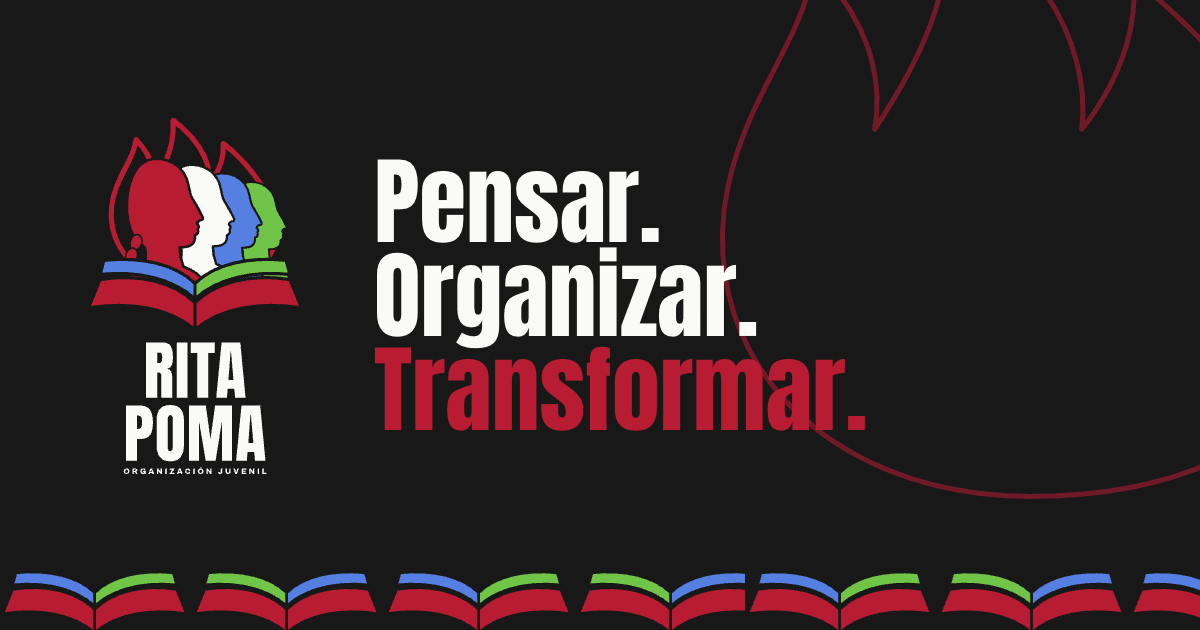
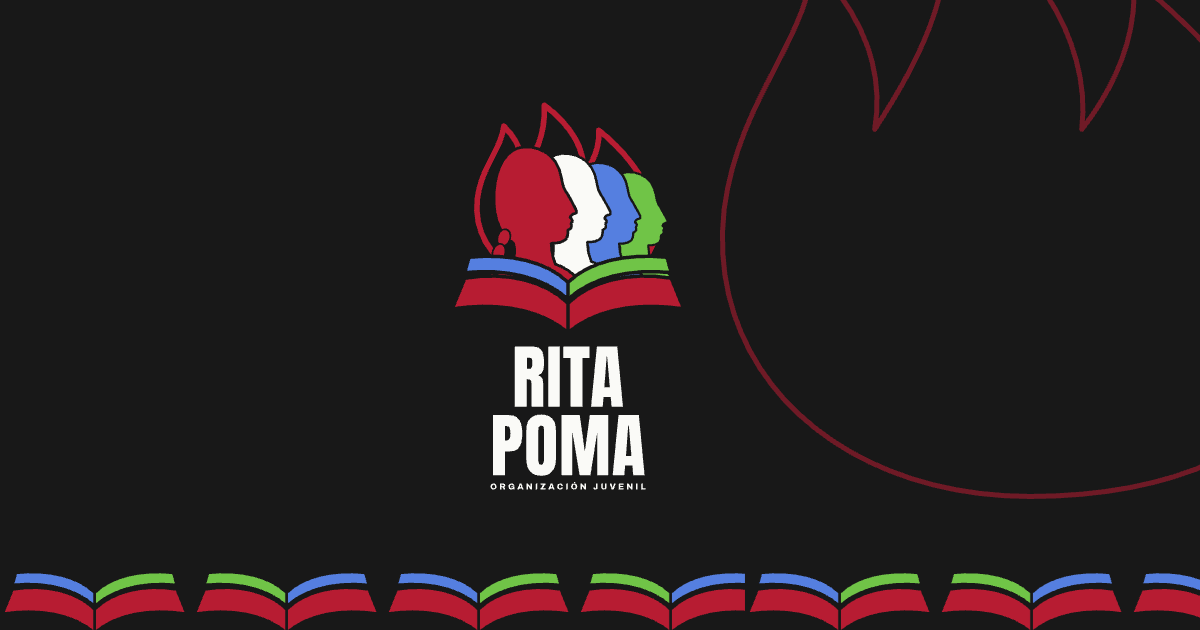
Quitar el lema interno de las páginas públicas
El lema de la organización es de uso interno y no va en piezas para el
público. Se quita de la portada (título y descripciones para compartir), del
pie del informe y de la imagen para compartir. La portada queda con el logo,
"Lima Este" y los botones, centrados en la pantalla.

Changed region(s): [[0.3083, 0.1508, 0.74, 0.7841], [0.0617, 0.181, 0.2467, 0.5127], [0.0925, 0.5429, 0.2467, 0.754]]

diff --git a/web/publico/index.html b/web/publico/index.html
@@ -4,7 +4,7 @@
 <meta charset="utf-8">
 <meta name="viewport" content="width=device-width, initial-scale=1, viewport-fit=cover">
 <title>Organización Juvenil Rita Poma</title>
-<meta name="description" content="Organización Juvenil Rita Poma, Lima Este. Pensar. Organizar. Transformar.">
+<meta name="description" content="Organización Juvenil Rita Poma, Lima Este.">
 <meta name="theme-color" content="#181818">
 
 <!-- Vista previa al compartir el enlace (WhatsApp, Instagram, Facebook) -->
@@ -12,7 +12,7 @@
 <meta property="og:locale" content="es_PE">
 <meta property="og:site_name" content="Organización Juvenil Rita Poma">
 <meta property="og:title" content="Organización Juvenil Rita Poma">
-<meta property="og:description" content="Pensar. Organizar. Transformar. · Lima Este">
+<meta property="og:description" content="Organización Juvenil · Lima Este">
 <meta property="og:image" content="https://web.organizacionritapoma.workers.dev/recursos/og/portada.png">
 <meta property="og:image:width" content="1200">
 <meta property="og:image:height" content="630">
@@ -35,13 +35,9 @@
   </div>
 
   <main class="portada__contenido">
-    <img class="portada__logo" src="recursos/img/logo_negativo.svg" width="168" height="269"
-         alt="Rita Poma, Organización Juvenil">
-
-    <h1 class="portada__eslogan">
-      <span>Pensar.</span>
-      <span>Organizar.</span>
-      <span class="rojo">Transformar.</span>
+    <h1 class="portada__titulo">
+      <img class="portada__logo" src="recursos/img/logo_negativo.svg" width="200" height="321"
+           alt="Rita Poma, Organización Juvenil">
     </h1>
 
     <p class="antetitulo portada__lugar">Lima Este</p>

diff --git a/web/og/plantilla.html b/web/og/plantilla.html
@@ -16,6 +16,8 @@
   .linea-de-fuego { top: -120px; right: -150px; width: 640px; height: auto; opacity: .55; }
   .contenido { position: absolute; left: 80px; top: 70px; bottom: 110px; right: 80px; display: flex; align-items: center; gap: 64px; z-index: 1; }
   .logo { width: 230px; flex: none; }
+  .contenido--solo-logo { justify-content: center; }
+  .contenido--solo-logo .logo { width: 250px; }
   .titular { font-family: var(--titular); font-size: 96px; line-height: .98; }
   .titular .rojo { color: var(--rojo); }
   .titular--doc { font-size: 92px; max-width: 9.5ch; }
@@ -34,9 +36,11 @@
 </div>
 <script>
   var pieza = new URLSearchParams(location.search).get("pieza") || "portada";
-  document.getElementById("texto").innerHTML = pieza === "documento"
-    ? '<p class="titular titular--doc">Rita Poma y el Puno de su tiempo</p>'
-    : '<p class="titular">Pensar.<br>Organizar.<br><span class="rojo">Transformar.</span></p>';
+  if (pieza === "documento") {
+    document.getElementById("texto").innerHTML = '<p class="titular titular--doc">Rita Poma y el Puno de su tiempo</p>';
+  } else {
+    document.querySelector(".contenido").classList.add("contenido--solo-logo");
+  }
 </script>
 </body>
 </html>

diff --git a/web/publico/recursos/css/portada.css b/web/publico/recursos/css/portada.css
@@ -38,10 +38,13 @@
   display: flex;
   flex-direction: column;
   align-items: center;
+  justify-content: center;
   text-align: center;
 }
 
-.portada__logo { width: 168px; height: auto; }
+.portada__titulo { margin: 0; }
+.portada__logo { width: 200px; height: auto; }
+.portada__titulo + .portada__lugar { margin-top: 28px; }
 
 .portada__eslogan {
   margin-top: 36px;
@@ -67,8 +70,7 @@
   gap: 14px;
 }
 
-/* Cada botón es una cápsula como los stickers del manual ("Pensar.", "Organizar.", "Transformar."):
-   rojo, azul y blanco, en ese orden. */
+/* Cada botón es una cápsula como los stickers del manual: rojo, azul y blanco, en ese orden. */
 .enlace {
   display: flex; align-items: center; justify-content: space-between; gap: 14px;
   min-height: 66px; padding: 14px 22px 14px 28px;

diff --git a/web/publico/recursos/css/documento.css b/web/publico/recursos/css/documento.css
@@ -280,8 +280,6 @@ html { scroll-behavior: smooth; scroll-padding-top: calc(var(--alto-barra) + 20p
   display: flex; flex-direction: column; align-items: center; text-align: center; gap: 24px;
 }
 .pie__interior img { width: 120px; height: auto; }
-.pie__eslogan { font-family: var(--titular); font-size: 28px; line-height: 1.1; }
-.pie__eslogan span { color: var(--rojo); }
 .pie__acciones { display: flex; flex-direction: column; gap: 12px; width: 100%; max-width: 300px; }
 @media (min-width: 640px) { .pie__acciones { flex-direction: row; justify-content: center; max-width: none; } }
 .pie .banda-de-libros { background-image: url("../img/banda-de-libros_fondo-oscuro.svg"); }

diff --git a/web/publico/rita-poma-y-el-puno/index.html b/web/publico/rita-poma-y-el-puno/index.html
@@ -495,7 +495,6 @@
 <footer class="pie">
   <div class="pie__interior">
     <img src="../recursos/img/logo_negativo.svg" width="120" height="192" alt="Rita Poma, Organización Juvenil">
-    <p class="pie__eslogan">Pensar. Organizar. <span>Transformar.</span></p>
     <div class="pie__acciones">
       <a class="boton boton--claro" href="../descargas/rita-poma-y-el-puno-de-su-tiempo.pdf" download>
         <svg viewBox="0 0 24 24" fill="none" stroke="currentColor" stroke-width="2.4" stroke-linecap="round" stroke-linejoin="round" aria-hidden="true"><path d="M12 4v11M7 10l5 5 5-5M5 20h14"/></svg>
